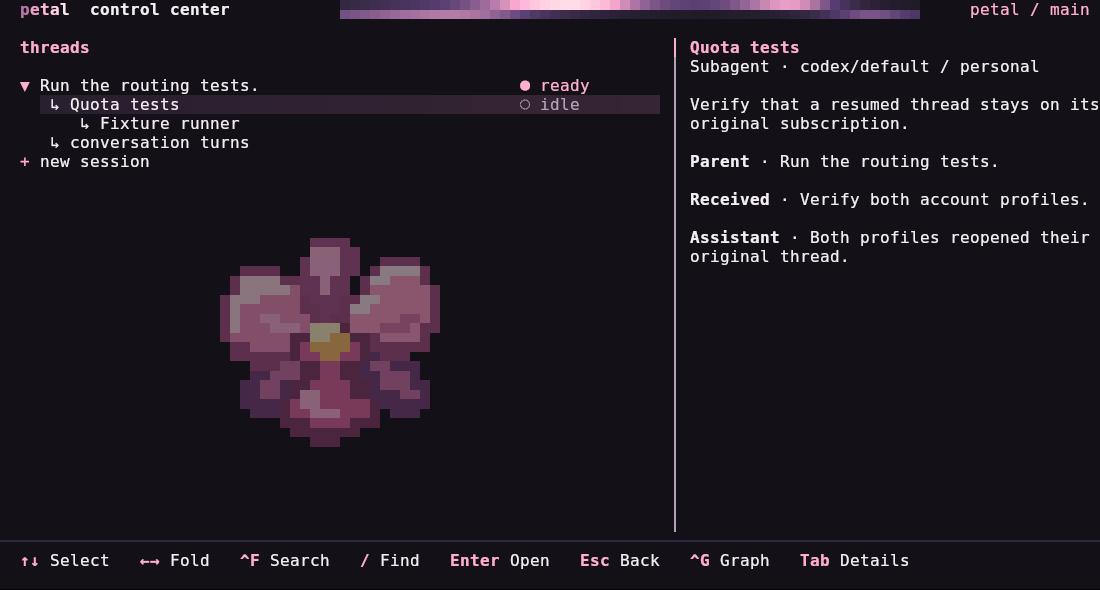
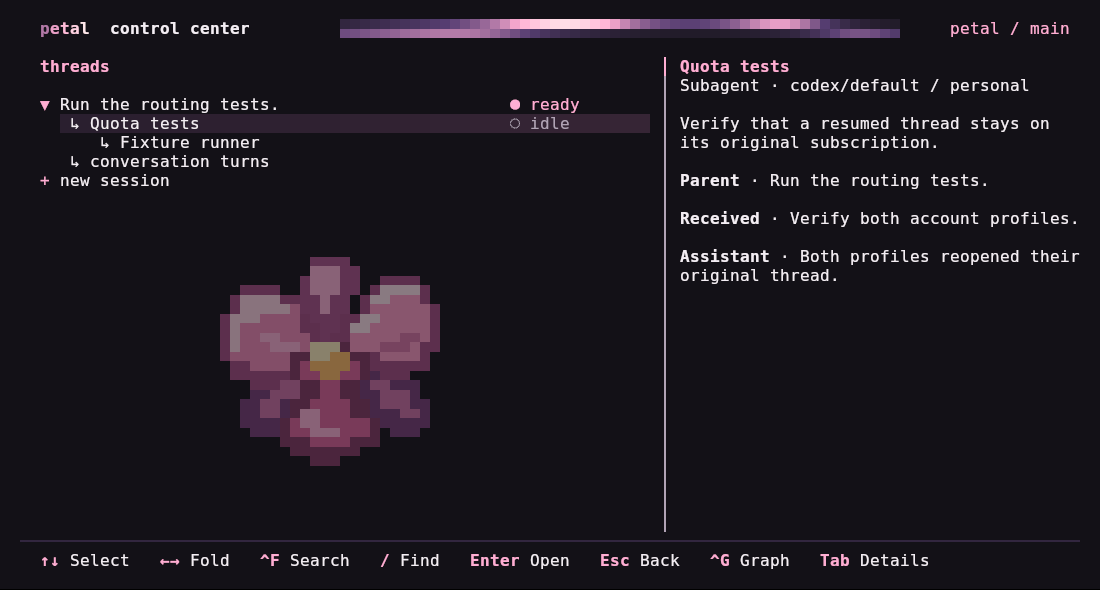
fix(tui): apply consistent margins around every screen

diff --git a/internal/tui/frame.go b/internal/tui/frame.go
@@ -1,0 +1,68 @@
+package tui
+
+import (
+	"strings"
+
+	tea "charm.land/bubbletea/v2"
+)
+
+// frame reserves the same outer margin for chat and navigation. The child
+// receives dimensions and pointer positions relative to the content area.
+type frame struct {
+	tea.Model
+	background       string
+	width, left, top int
+}
+
+func (f *frame) Update(msg tea.Msg) (tea.Model, tea.Cmd) {
+	switch event := msg.(type) {
+	case tea.WindowSizeMsg:
+		f.width = event.Width
+		f.left, f.top = 0, 0
+		if event.Width >= 40 {
+			f.left = 2
+		}
+		if event.Height >= 16 {
+			f.top = 1
+		}
+		event.Width -= 2 * f.left
+		event.Height -= 2 * f.top
+		msg = event
+	case tea.MouseClickMsg:
+		event.X -= f.left
+		event.Y -= f.top
+		if event.X < 0 || event.Y < 0 || event.X >= f.width-2*f.left {
+			return f, nil
+		}
+		msg = event
+	case tea.MouseWheelMsg:
+		event.X -= f.left
+		event.Y -= f.top
+		msg = event
+	}
+	var cmd tea.Cmd
+	f.Model, cmd = f.Model.Update(msg)
+	return f, cmd
+}
+
+func (f *frame) View() tea.View {
+	v := f.Model.View()
+	if f.left == 0 && f.top == 0 {
+		return v
+	}
+	if f.left > 0 {
+		side := richBand("", f.left, petalText, f.background, false)
+		v.Content = side + strings.ReplaceAll(v.Content, "\n", side+"\n"+side) + side
+	}
+	if f.top > 0 {
+		row := richBand("", f.width, petalText, f.background, false)
+		v.Content = row + "\n" + v.Content + "\n" + row
+	}
+	if v.Cursor != nil {
+		cursor := *v.Cursor
+		cursor.X += f.left
+		cursor.Y += f.top
+		v.Cursor = &cursor
+	}
+	return v
+}

diff --git a/internal/tui/shortcuts.go b/internal/tui/shortcuts.go
@@ -104,9 +104,6 @@ func styledHint(hint, background string, width int) string {
 }
 
 func navFooterHeight(h int) int {
-	if h >= 24 {
-		return 3
-	}
 	if h >= 12 {
 		return 2
 	}
@@ -121,8 +118,5 @@ func appendNavFooter(rows []string, w, h int, hint, background string) []string 
 		rows = append(rows, richBand(strings.Repeat("─", w), w, selectionBand, background, false))
 	}
 	rows = append(rows, richBand("  "+strings.TrimSpace(hint), w, petalText, background, false))
-	if len(rows) < h && navFooterHeight(h) == 3 {
-		rows = append(rows, richBand("", w, petalText, background, false))
-	}
 	return rows
 }

diff --git a/internal/tui/petal_fuzz_test.go b/internal/tui/petal_fuzz_test.go
@@ -180,9 +180,6 @@ func FuzzPetalReader(f *testing.F) {
 		// A short message occupies one row, with one separator between messages.
 		// At these heights the header has a spacer and the footer has a divider.
 		page := height - 4
-		if height >= 24 {
-			page-- // Roomy terminals leave a row beneath the shortcuts.
-		}
 		total := 2*len(v.Messages) - 1
 		top := max(0, total-page-int(scroll%30))
 		want := make([]string, 0)

diff --git a/internal/tui/clipboard_input.go b/internal/tui/clipboard_input.go
@@ -46,7 +46,7 @@ func runChat(m *terminal) error {
 	}
 	m.inputTTY = tty
 	input := &clipboardInput{File: tty}
-	_, err := tea.NewProgram(m, tea.WithInput(input), tea.WithFilter(input.restorePacket)).Run()
+	_, err := tea.NewProgram(&frame{Model: m, background: canvasBackground(m.cfg.TransparentBackground)}, tea.WithInput(input), tea.WithFilter(input.restorePacket)).Run()
 	return err
 }
 

diff --git a/internal/tui/picker.go b/internal/tui/picker.go
@@ -499,6 +499,6 @@ func pick(c routing.Config, resume bool) (sessionStart, bool, error) {
 	if resume && len(m.saved) > 0 {
 		m.center.selected = m.saved[0].ID
 	}
-	_, err := tea.NewProgram(m).Run()
+	_, err := tea.NewProgram(&frame{Model: m, background: m.background}).Run()
 	return sessionStart{cfg: m.cfg, resume: m.resume, id: m.id}, m.chosen, err
 }
